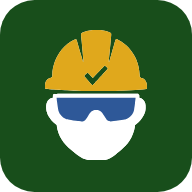
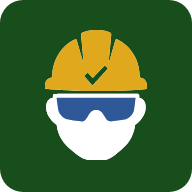
tweak: suaviza cantos do icone de 18% para 12% (rx=123)
O raio de 18% (rx=184) deixava o desenho central apertado. Reduzido para
~12% (rx=123) — cantos ainda arredondados, mas com mais respiro. Rerenderiza
icon-192/512.png; SW bump v169.

Claude-Session: https://claude.ai/code/session_019RctmhaTXEMWeF3XGdvyGF

diff --git a/service-worker.js b/service-worker.js
@@ -4,7 +4,7 @@
 // CONFIGURAÇÃO DO SERVICE WORKER - Definições de Cache
 // =========================================================================
 
-const CACHE_NAME = "gentehonesta-v168";
+const CACHE_NAME = "gentehonesta-v169";
 
 // CONFIGURAÇÃO DO SERVICE WORKER - Lista de Recursos Core para Cache Inicial
 const urlsToCache = [

diff --git a/CLAUDE.md b/CLAUDE.md
@@ -77,7 +77,7 @@ service-worker.js       — Network-First, cache offline, CACHE_NAME = "gentehon
 CNAME                   — "gentehonesta.com.br"
 .nojekyll               — Impede o Jekyll do GitHub Pages de processar os arquivos
 icon.svg                — Fonte do ícone QUADRADO full-bleed (operário: capacete + óculos + rosto + check); fundo verde --p-green #184e1b (mesmo da tela inicial/loader). Base dos PNGs maskable
-icon-rounded.svg        — Mesma arte com CANTOS ARREDONDADOS (clipPath rx=184 ≈ 18%; cantos transparentes fora do round-rect). Base dos PNGs `purpose:"any"`. Gerada a partir de icon.svg (wrap do <g> num clip-path)
+icon-rounded.svg        — Mesma arte com CANTOS ARREDONDADOS (clipPath rx=123 ≈ 12%; cantos transparentes fora do round-rect). Base dos PNGs `purpose:"any"`. Gerada a partir de icon.svg (wrap do <g> num clip-path)
 icon-transparent.svg    — Mesma arte com FUNDO TRANSPARENTE (check continua verde); usada na tela de boas-vindas sobre o verde
 icon-192.png            — Ícone PWA 192px ARREDONDADO (RGBA, cantos transparentes); manifest `purpose:"any"` + favicon. Mostrado "cru" onde o SO não recorta
 icon-512.png            — Ícone PWA 512px ARREDONDADO (RGBA); manifest `purpose:"any"`
@@ -394,7 +394,7 @@ o ícone fica automaticamente centralizado com o texto. `.btn--text .material-sy
 
 **`text-decoration` não propaga de forma confiável para filhos de um flex container:** `.pro-card__meta-item--inactive` (rodapé do card de profissional, `proFooterHTML()` em `feed.js`) risca só o texto do método de pagamento indisponível, nunca o ícone — mas o `text-decoration: line-through` está no span do RÓTULO (`.pro-card__meta-item__label`), não em `.pro-card__meta-item--inactive` diretamente. Colocar o risco no item (que é `display: inline-flex`) e tentar excluir o ícone com `text-decoration: none` nele NÃO funciona no Chrome: como `.pro-card__meta-item` é um flex container, o ícone (item flex) é "blockificado" e o navegador ignora esse `none`, riscando o ícone mesmo assim. A solução é aplicar o risco direto no span do texto, nunca herdado de um ancestral flex.
 
-**Service Worker:** incrementar `CACHE_NAME` em `service-worker.js` a cada deploy com mudanças de cache. Versão atual: `gentehonesta-v168`. Os arquivos CSS e JS são atualizados automaticamente pelo Network-First; o incremento serve para forçar limpeza de caches antigos.
+**Service Worker:** incrementar `CACHE_NAME` em `service-worker.js` a cada deploy com mudanças de cache. Versão atual: `gentehonesta-v169`. Os arquivos CSS e JS são atualizados automaticamente pelo Network-First; o incremento serve para forçar limpeza de caches antigos.
 
 **Seção "Detalhes profissionais" (`#panel-prodetails`):** todas as subseções seguem o mesmo padrão visual
 (sem cards/fundos individuais) — "O que você faz?", "Suas Habilidades" e "Padrão de Serviços" são
